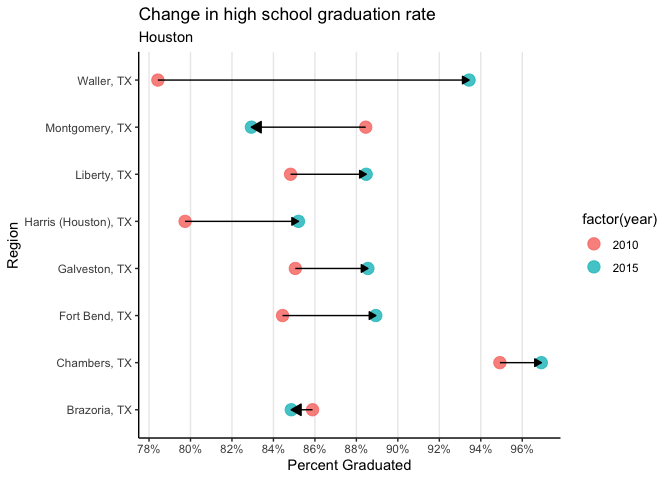
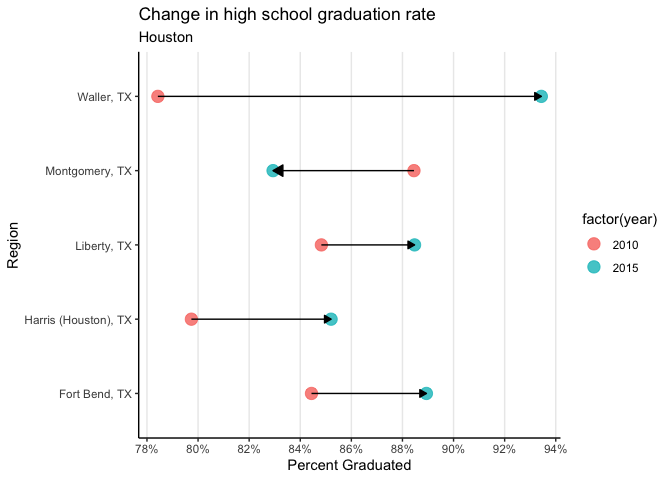
update

diff --git a/Jay's work/Dec_6.md b/Jay's work/Dec_6.md
@@ -161,11 +161,8 @@ tx <- df%>%
   mutate(county_name = case_when(county_code == "48201" ~ "Harris (Houston)", 
                                  county_code == "48157" ~ "Fort Bend", 
                                  county_code == "48339" ~ "Montgomery", 
-                                 county_code == "48167" ~ "Galveston", 
-                                 county_code == "48039" ~ "Brazoria", 
                                  county_code == "48291" ~ "Liberty", 
-                                 county_code == "48473" ~ "Waller", 
-                                 county_code == "48071" ~ "Chambers"))%>%
+                                 county_code == "48473" ~ "Waller"))%>%
   drop_na(county_name)
 
 
@@ -418,8 +415,6 @@ ggplot()+
   theme(panel.grid.major.x=element_line())
 ```
 
-    ## Warning: Removed 8 rows containing non-finite values (stat_density).
-
 ![](Dec_6_files/figure-gfm/unnamed-chunk-10-2.png)<!-- --> Philadelphia
 :
 
@@ -637,11 +632,8 @@ data1 <- df%>%
                                 county_code == "48201" ~ "Harris (Houston), TX", 
                                 county_code == "48157" ~ "Fort Bend, TX", 
                                 county_code == "48339" ~ "Montgomery, TX", 
-                                county_code == "48167" ~ "Galveston, TX", 
-                                county_code == "48039" ~ "Brazoria, TX", 
                                 county_code == "48291" ~ "Liberty, TX", 
                                 county_code == "48473" ~ "Waller, TX", 
-                                county_code == "48071" ~ "Chambers, TX",
                                 county_code == "42101" ~ "Philadelphia, PA", 
                                 county_code == "42045" ~ "Delaware, PA", 
                                 county_code == "42029" ~ "Chester, PA", 
@@ -691,7 +683,7 @@ la_rates_bad <-  grad_rates_la %>%
 
 #Hou
 grad_rates_hou<- data %>%
-  filter(county_name %in% c("Harris (Houston), TX", "Fort Bend, TX" , "Montgomery, TX", "Galveston, TX", "Liberty, TX", "Waller, TX","Chambers, TX", "Brazoria, TX"))%>%
+  filter(county_name %in% c("Harris (Houston), TX", "Fort Bend, TX" , "Montgomery, TX", "Liberty, TX", "Waller, TX"))%>%
   group_by(county_name,year)%>%
   summarise(mean_grad = mean(hs_grads))
 ```
@@ -700,9 +692,9 @@ grad_rates_hou<- data %>%
 
 ``` r
 hou_rates_good <- grad_rates_hou %>% 
-  filter(county_name %in% c("Chambers, TX", "Fort Bend, TX", "Galveston, TX", "Liberty, TX" ,"Waller, TX", "Harris (Houston), TX"))
+  filter(county_name %in% c("Fort Bend, TX", "Liberty, TX" ,"Waller, TX", "Harris (Houston), TX"))
 hou_rates_bad <-  grad_rates_hou %>% 
-  filter(county_name %in% c("Montgomery, TX" , "Brazoria, TX"))
+  filter(county_name %in% c("Montgomery, TX" ))
 
 #Philly
 grad_rates_philly<- data %>%
